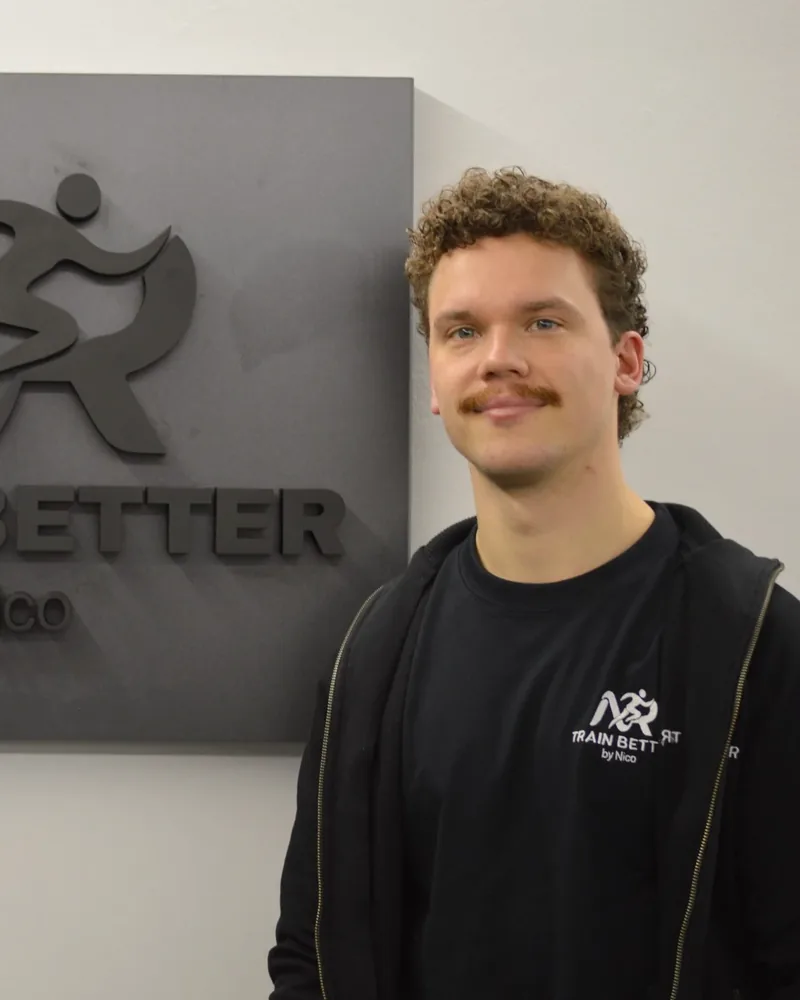
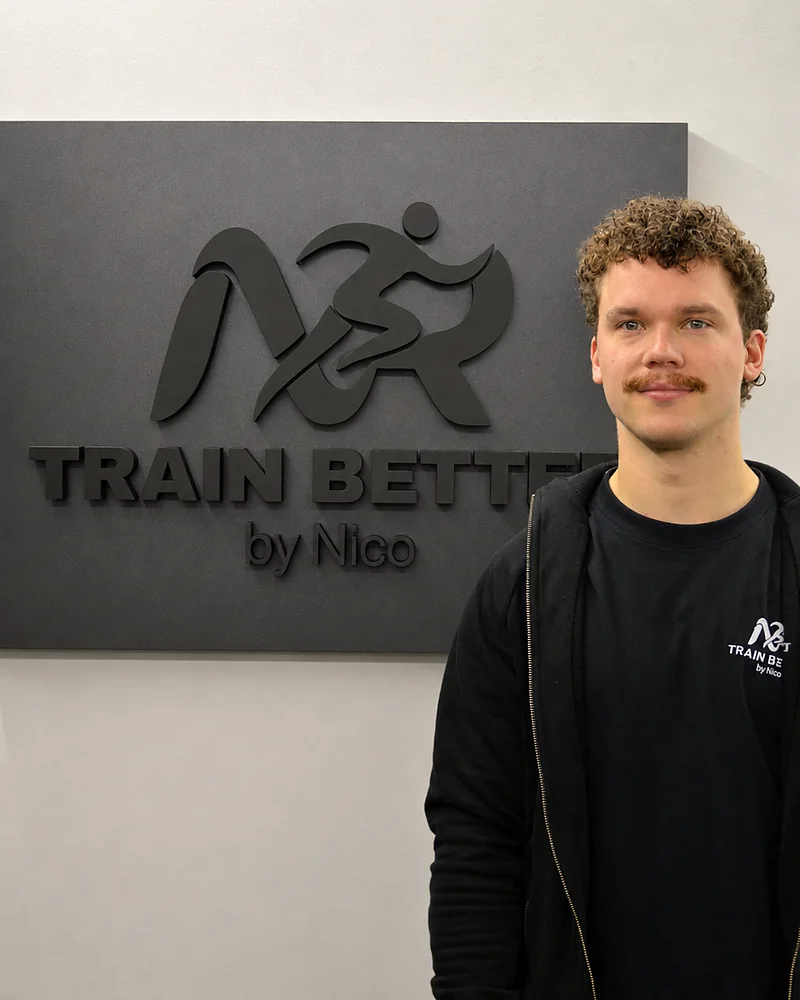
Nicos neues Porträt und Ernährungsfoto, Fahrtkosten ohne Betrag
- Studioporträt bei Über mich, Porridge-Foto bei Ernährungsberatung
  (leicht aufgehellt, Farben und Schärfe angepasst)
- zzgl. Fahrtkosten statt 0,30 € pro km

Claude-Session: https://claude.ai/code/session_01AwEhzEbiTXbCb29a6i889w

diff --git a/website/index.html b/website/index.html
@@ -237,7 +237,7 @@
           <div class="card-body">
           <h3>Bei Ihnen zu Hause</h3>
           <p>Sie möchten in Ihren eigenen vier Wänden trainieren? Ich komme zu Ihnen.</p>
-          <span class="tag">zzgl. Anfahrt 0,30&nbsp;€ pro km</span>
+          <span class="tag">zzgl. Fahrtkosten</span>
           </div>
         </article>
       </div>
@@ -293,7 +293,7 @@
           </div>
         </div>
       </div>
-      <p class="price-foot">Vor Beginn des regelmäßigen Trainings ist der Ersttermin (85&nbsp;€) verbindlich. Bei Training bei Ihnen zu Hause kommen Anfahrtskosten von 0,30&nbsp;€ pro Kilometer hinzu.</p>
+      <p class="price-foot">Vor Beginn des regelmäßigen Trainings ist der Ersttermin (85&nbsp;€) verbindlich. Bei Training bei Ihnen zu Hause kommen Fahrtkosten hinzu.</p>
 
       <div class="plan">
         <div>
@@ -321,7 +321,7 @@
       </div>
       <div class="grid-2">
         <article class="card photo-card loc">
-          <img src="assets/angebot-ernaehrung.webp" alt="Teller mit Avocado-Sandwich, Kirschtomaten und Salat" width="1000" height="500" loading="lazy" decoding="async">
+          <img src="assets/angebot-ernaehrung.webp" alt="Porridge-Schale mit Banane, Walnüssen und Kürbiskernen" width="1000" height="667" loading="lazy" decoding="async">
           <div class="card-body">
           <h3>Ernährungs- &amp; Sporternährungsberatung</h3>
           <p>Individuelle Unterstützung rund um Ernährung, sportgerechte Ernährung und Gewichtsreduktion.</p>
@@ -344,7 +344,7 @@
   <section id="ueber-nico">
     <div class="wrap about-grid">
       <div class="about-photo">
-        <img src="assets/nico-portrait.webp" alt="Nico in seinem Homegym vor dem Train-Better-Logo" width="800" height="1000" loading="lazy" decoding="async">
+        <img src="assets/nico-portrait.webp" alt="Porträt von Nico vor dem Train-Better-Logo" width="800" height="1000" loading="lazy" decoding="async">
       </div>
       <div>
         <p class="eyebrow">Über mich</p>

diff --git a/website/styles.css b/website/styles.css
@@ -195,7 +195,7 @@ section { padding: clamp(64px, 8vw, 104px) 0; }
   background: repeating-linear-gradient(-58deg, var(--ph-stripe) 0 12px, transparent 12px 30px);
 }
 .photo-placeholder img { position: relative; width: 26%; max-width: 120px; height: auto; opacity: .35; aspect-ratio: auto; background: none; filter: var(--ph-logo-filter); }
-.ph-navy { background: var(--brand-3); aspect-ratio: 2 / 1; }
+.ph-navy { background: var(--brand-3); aspect-ratio: 3 / 2; }
 .ph-navy::before { background: repeating-linear-gradient(-58deg, rgba(255,255,255,.06) 0 12px, transparent 12px 30px); }
 .ph-navy img { opacity: .5; filter: none; }
 
@@ -286,7 +286,7 @@ section { padding: clamp(64px, 8vw, 104px) 0; }
 .section-navy .card p { color: var(--on-brand-muted); }
 .section-navy .icon { background: var(--white); color: var(--navy); }
 .section-navy .card .tag { color: var(--on-brand-soft); }
-#weitere .photo-card img { aspect-ratio: 2 / 1; }
+#weitere .photo-card img { aspect-ratio: 3 / 2; }
 
 /* About */
 .about-grid { display: grid; grid-template-columns: .9fr 1.1fr; gap: 56px; align-items: center; }
